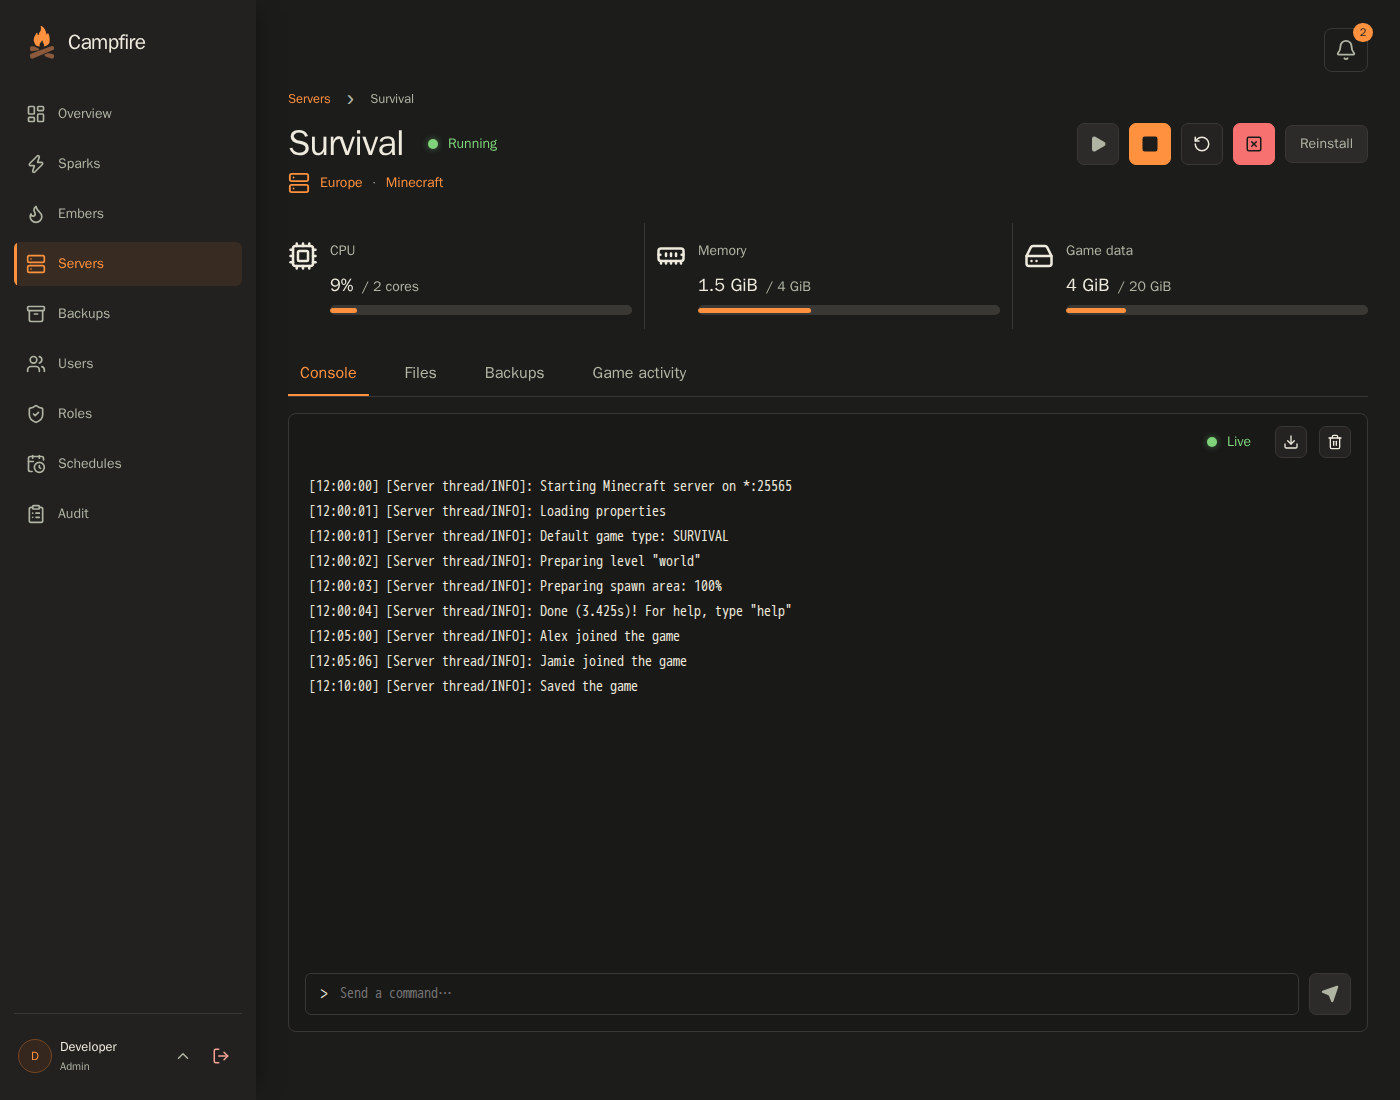
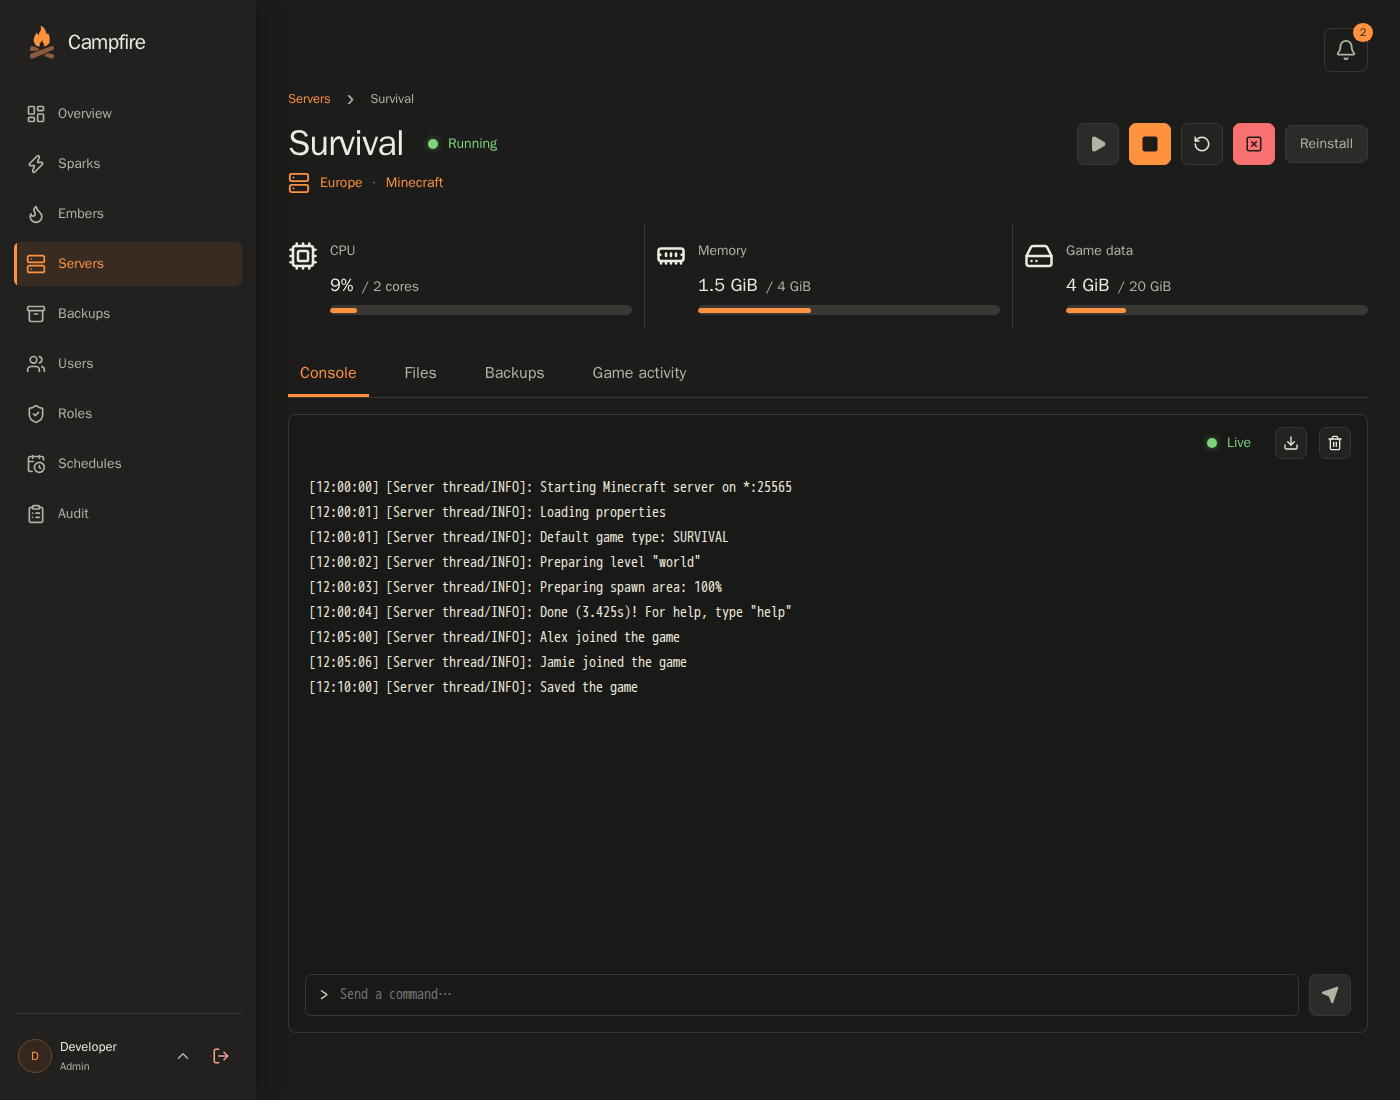
Prevent server tab overflow from shifting screenshots

Changed region(s): [[0.215, 0.4327, 0.5529, 0.6491], [0.2457, 0.8964, 0.3071, 0.9273]]

diff --git a/e2e/screens.ts b/e2e/screens.ts
@@ -138,6 +138,11 @@ export async function openServerTab(page: Page, tab: string, label: string) {
     page.getByRole("heading", { level: 1, name: "Survival", exact: true }),
   ).toBeVisible();
   await expect(page.locator('[aria-busy="true"]')).toHaveCount(0);
+  await expect
+    .poll(() =>
+      tabs.evaluate((element) => element.scrollHeight <= element.clientHeight),
+    )
+    .toBe(true);
   if (tab === "console") {
     await expect(
       page.getByRole("region", { name: "Console output", exact: true }),

diff --git a/web/src/pages/server-operations.css b/web/src/pages/server-operations.css
@@ -40,7 +40,6 @@
   & a {
     white-space: nowrap;
     padding: 10px 12px;
-    margin-bottom: -1px;
     border-bottom: 3px solid transparent;
     color: var(--muted);
     font-size: 16px;
